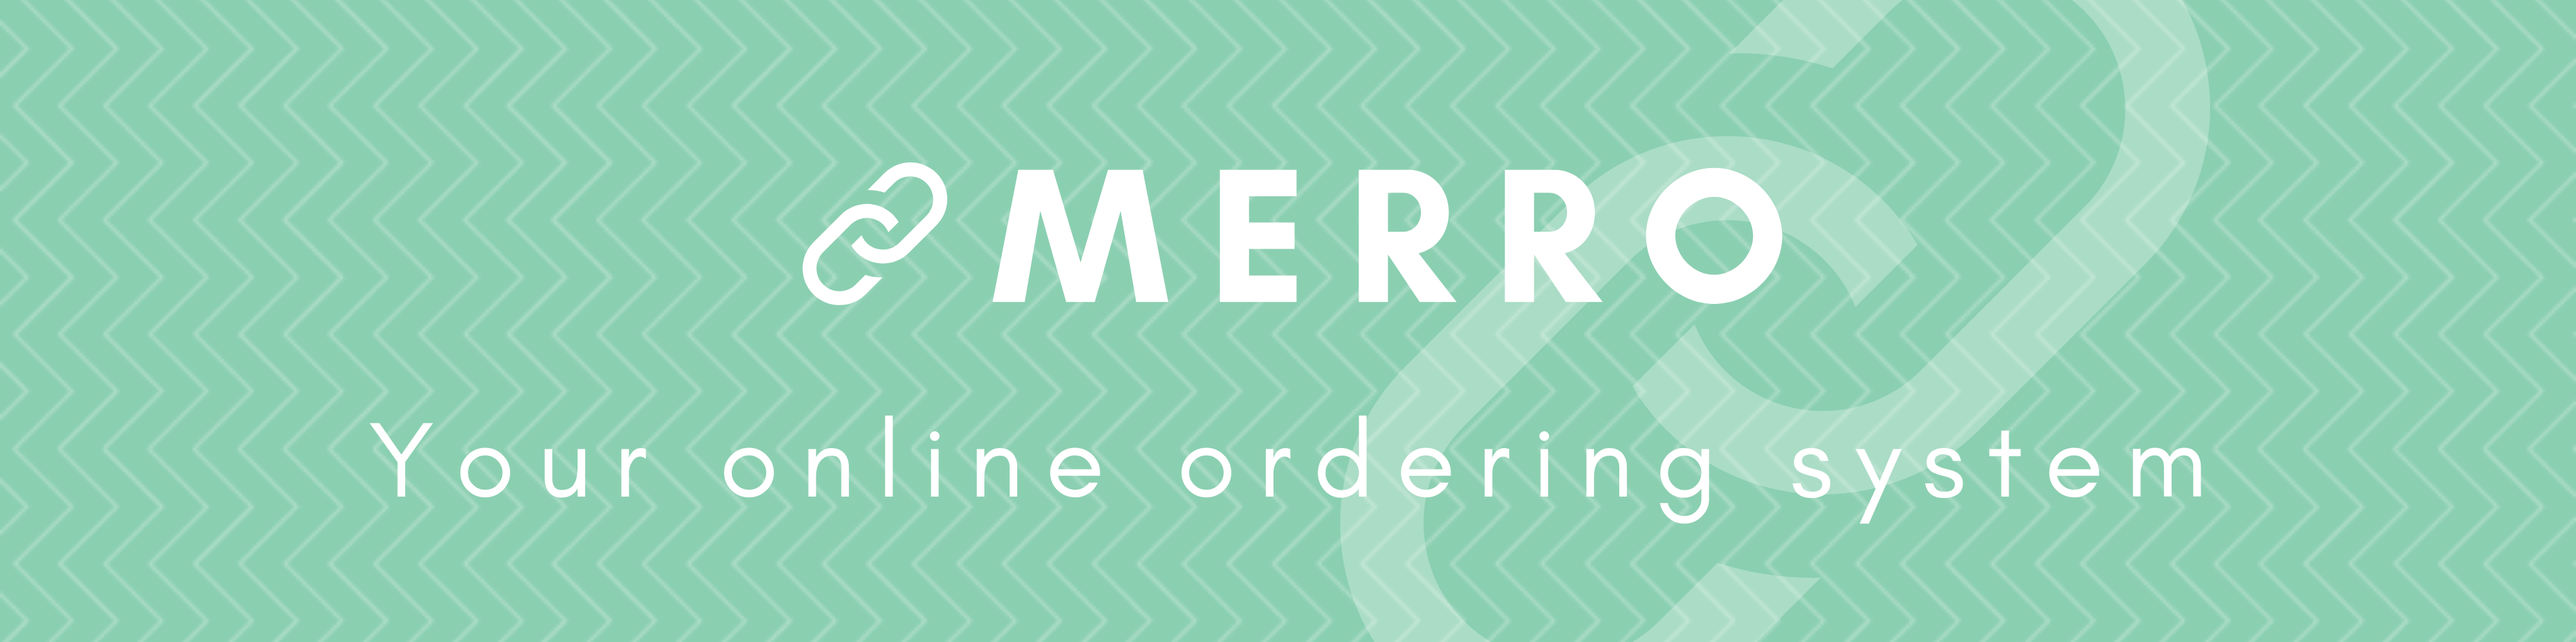
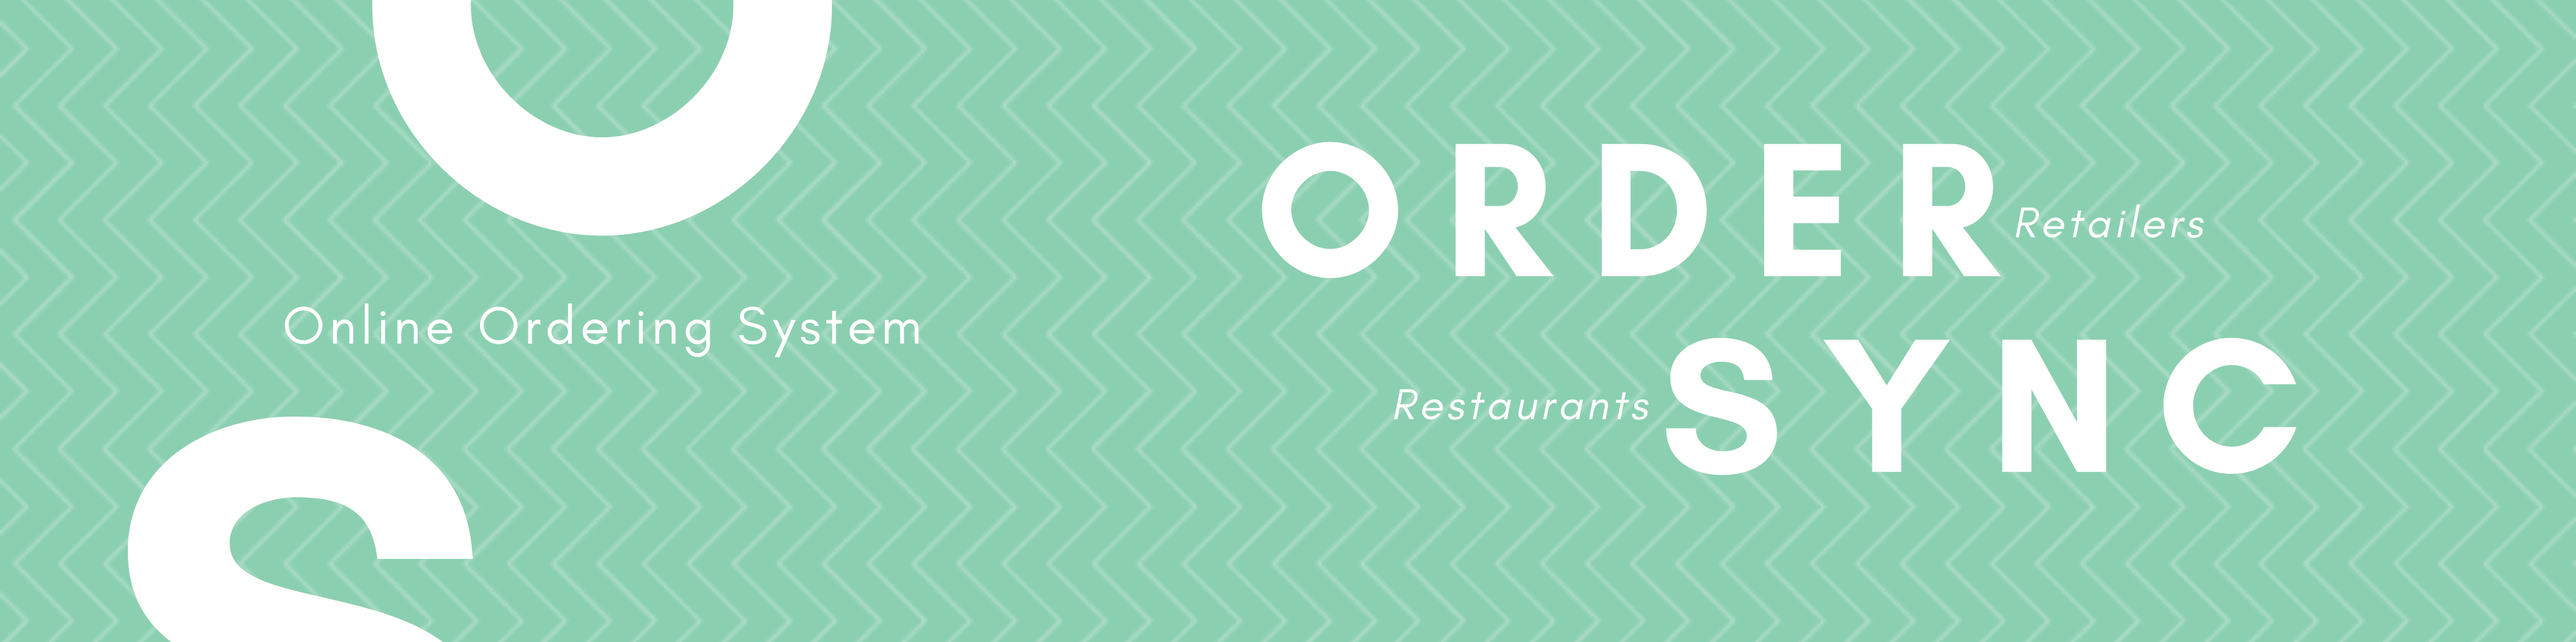
update README and cover

diff --git a/README.md b/README.md
@@ -1,6 +1,6 @@
 <img src="images/cover.png" alt="cover" />
 
-# MeRRo
+# Order Sync
 
 ## Table of Contents
 1. [Demo Online Links](#demo-online-links)
@@ -14,15 +14,15 @@
 9. [Frequently Asked Questions (FAQs)](#frequently-asked-questions-faqs)
 
 ## Demo Online Links
-Store Website: https://merro-dev.vercel.app<br/>
-Manager Website: https://merro-restaurant-dev.vercel.app<br/>
-Rider Website: https://merro-rider-dev.vercel.app<br/>
+Store Website: https://ordersync.vercel.app<br/>
+Orders Website: https://ordersync-orders.vercel.app<br/>
+Rider Website: https://ordersync-rider.vercel.app<br/>
 Partner Website: <br/>
 
 ## Introduction
 
 ### Brief Overview of the App
-MeRRo is a cutting-edge ordering system meticulously crafted for restaurants. Seamlessly integrating into applications, it boasts a robust back-end powered by Google Firebase, ensuring secure authentication. The MeRRo app delivers a streamlined and efficient online ordering experience.
+Order Sync is a cutting-edge ordering system meticulously crafted for restaurants. Seamlessly integrating into applications, it boasts a robust back-end powered by Google Firebase, ensuring secure authentication. The Order Sync app delivers a streamlined and efficient online ordering experience.
 
 ## Diagrams
 ![applications](images/applications.jpg)
@@ -112,7 +112,7 @@ Individuals looking to work as Order Captains or Delivery Captains in this busin
 ### Who would use the Customer Shop App?
 Customers looking to browse menus, place orders, and manage their accounts.
 
-### Why use MeRRo as a business owner?
+### Why use Order Sync as a business owner?
 
 1. **Increased Customer Base Network Effect:**
    - The Customer Shop app features multiple restaurants in the same city, increasing visibility and potential customer base.
